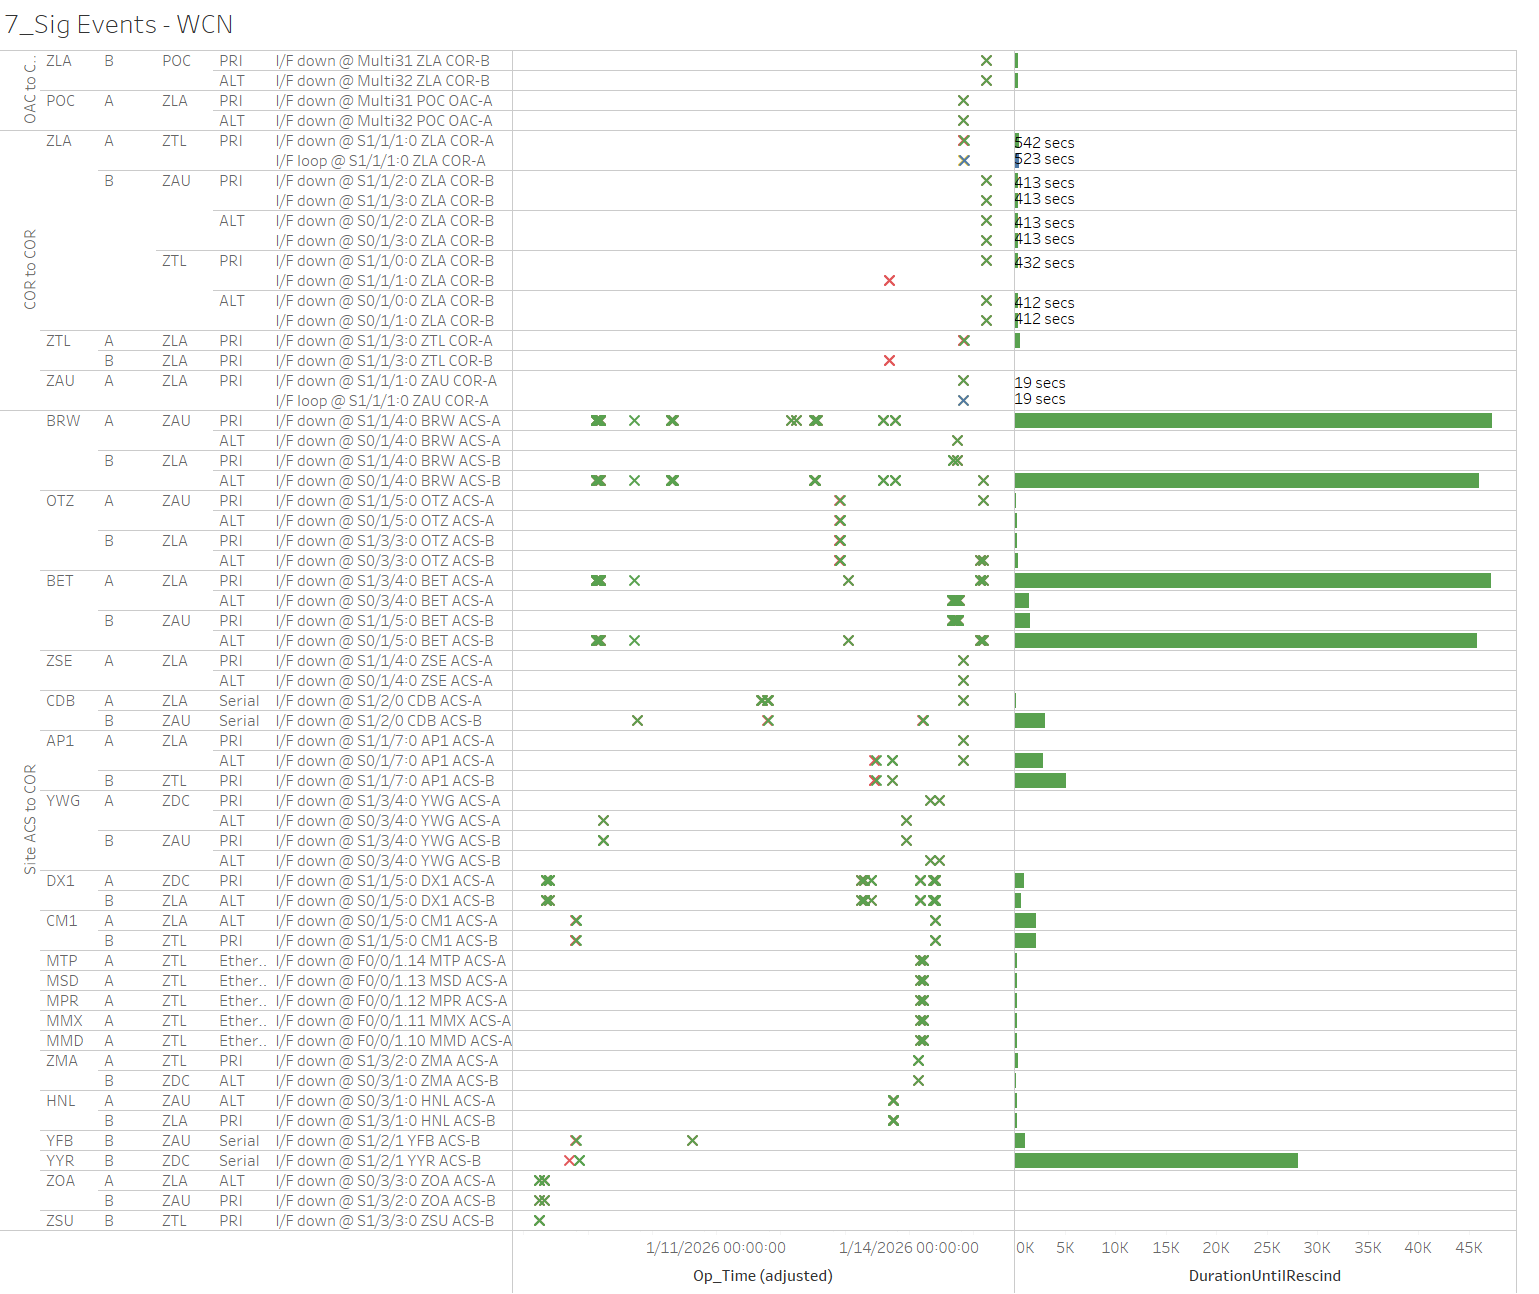
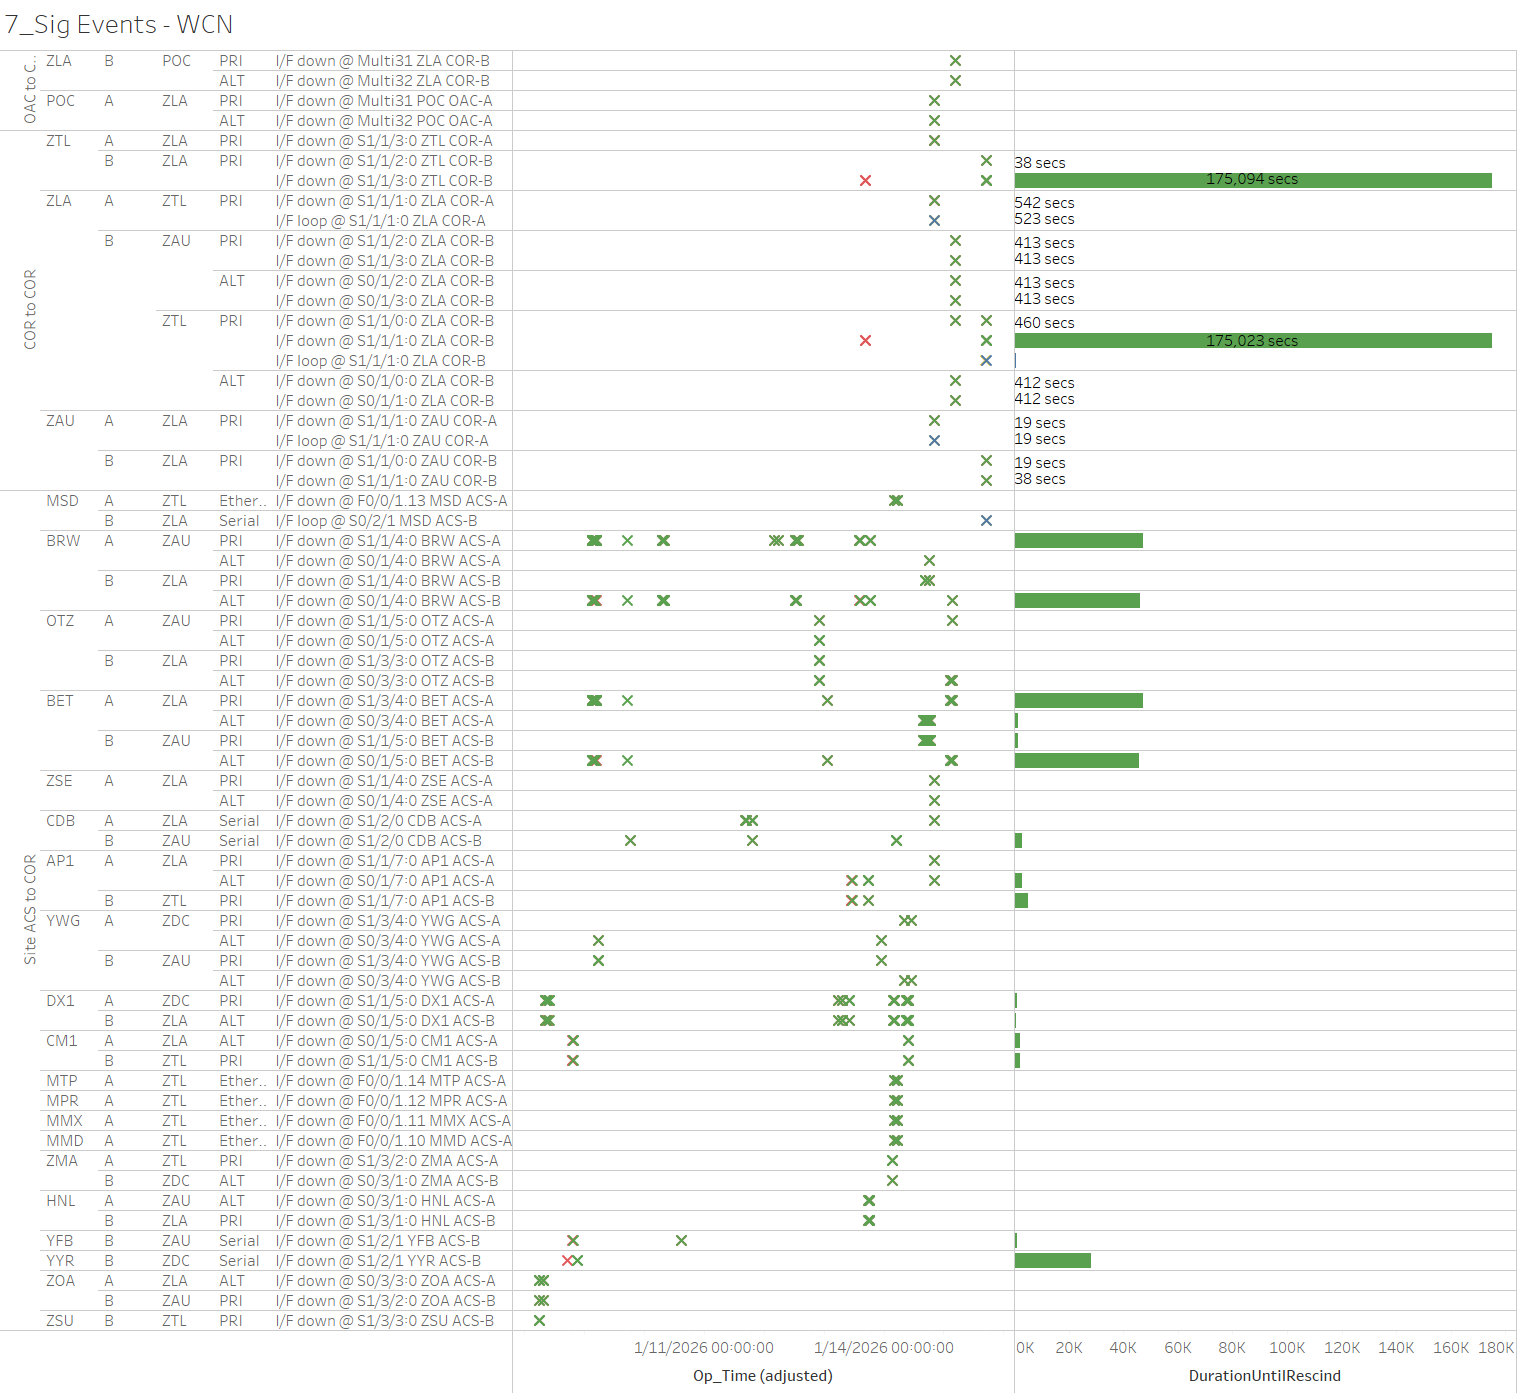
added ZTL-ZLA line cleared

diff --git a/sysmon/index.html b/sysmon/index.html
@@ -356,8 +356,10 @@
                                                                         Ring 2 PRI comms; <strong>router restored at
                                                                               1/15 04:48 (~431 seconds)</strong>, but
                                                                         ZTL-ZLA Ring 2 PRI comms still down...</li>
+                                                                  <li>1/15 16:44 - ZTL-ZLA Ring 2 PRI comms looped;
+                                                                        <strong>loop cleared at 1/15 16:55 and line
+                                                                              cleared (~175k seconds)</strong></li>
                                                             </ul>
-
 
 
                                                             <!-- <div class="card">
@@ -376,36 +378,6 @@
                                                             <div class="card-header text-bg-danger fw-bold">Comm
                                                                   Lines Down</div>
                                                             <div class="card-body text-bg-danger">
-                                                                  <p class="card-title fw-bold">1/13/26 ZTL-ZLA Ring 2
-                                                                        PRI
-                                                                        comms down
-                                                                  </p>
-                                                                  <p><code
-                                                                              class="text-reset">ISR 0114-1229 || ZLA&lt;&gt;ZTL Net2 PRI2 (W042325) down</code>
-                                                                        -- ref <a class="text-reset"
-                                                                              href="https://technetrmlsb.faa.gov/LIR/Details/1105315224">LIR
-                                                                              1105315224</a></p>
-                                                                  <ul>
-                                                                        <li>1/13 16:24 - ZTL-ZLA Ring 2 PRI comms down
-                                                                              hard; <code
-                                                                                    class="text-reset">ISR 0114-1229 || ZLA&lt;&gt;ZTL Net2 PRI2 (W042325) down</code>
-                                                                              -- ref <a class="text-reset"
-                                                                                    href="https://technetrmlsb.faa.gov/LIR/Details/1105315224">LIR
-                                                                                    1105315224</a>...</li>
-                                                                        <li>1/14 20:18 - ZTL-ZLA Ring 1 PRI comms looped
-                                                                              and several comms impacted at ZLA COR-A
-                                                                              clearing after ~20 seconds; <strong>loop
-                                                                                    cleared at 1/14 20:22 (~261
-                                                                                    seconds)</strong> (think this was a
-                                                                              mistake in loopback checking; if they
-                                                                              repeated this test on Ring 2 PRI, it did
-                                                                              not show the loop)</li>
-                                                                        <li>1/15 04:41 - Reset ZLA COR-B to address
-                                                                              ZTL-ZLA Ring 2 PRI comms; <strong>router
-                                                                                    restored at 1/15 04:48 (~431
-                                                                                    seconds)</strong>, but ZTL-ZLA Ring
-                                                                              2 PRI comms still down...</li>
-                                                                  </ul>
 
 
                                                                   <p class="card-title fw-bold">5/11/23 Mexico
